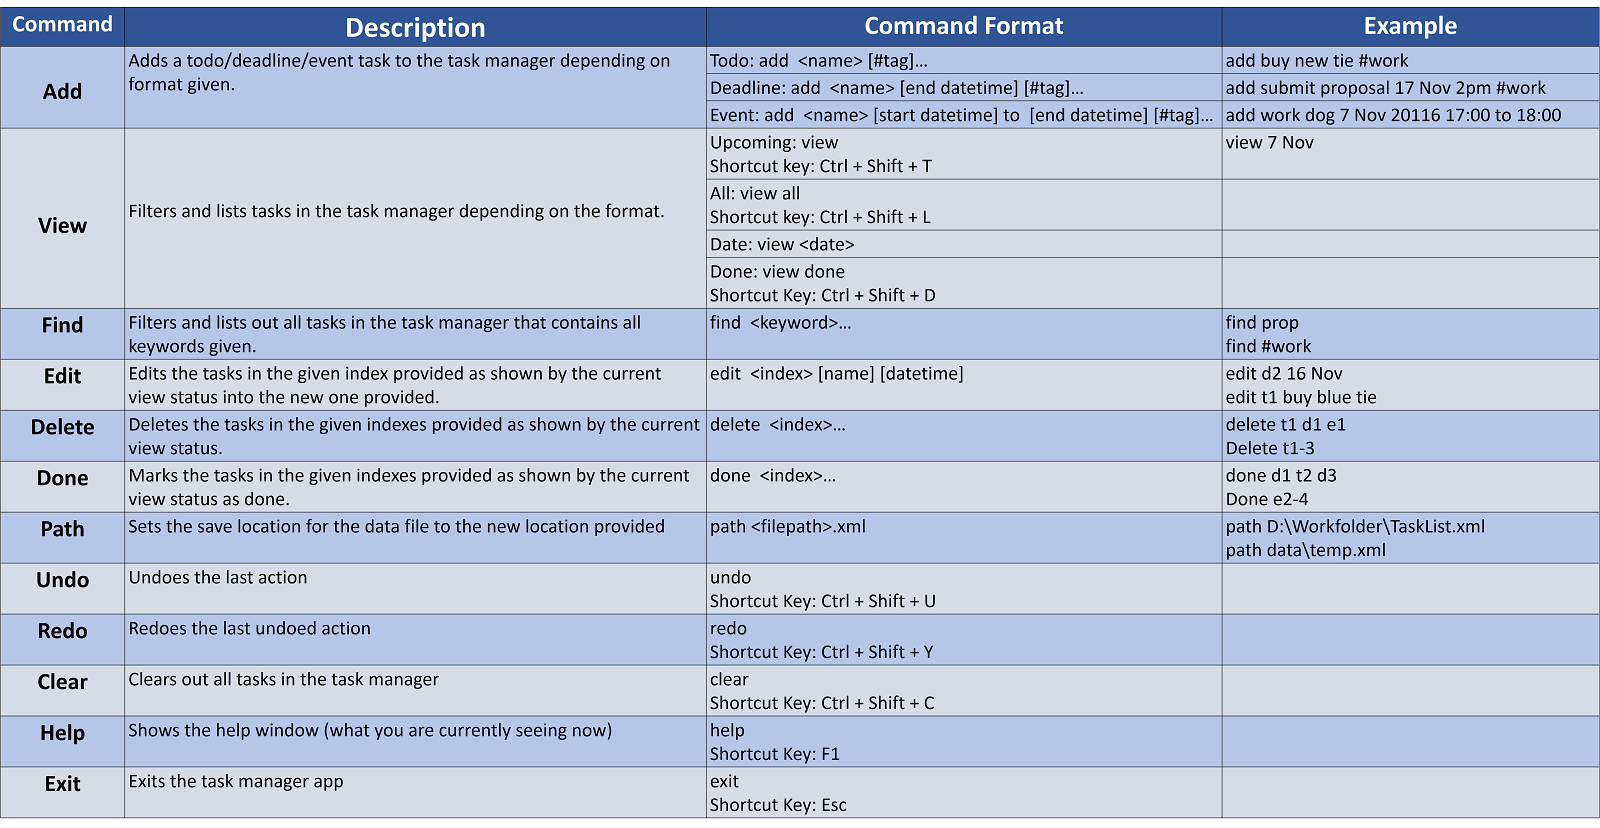
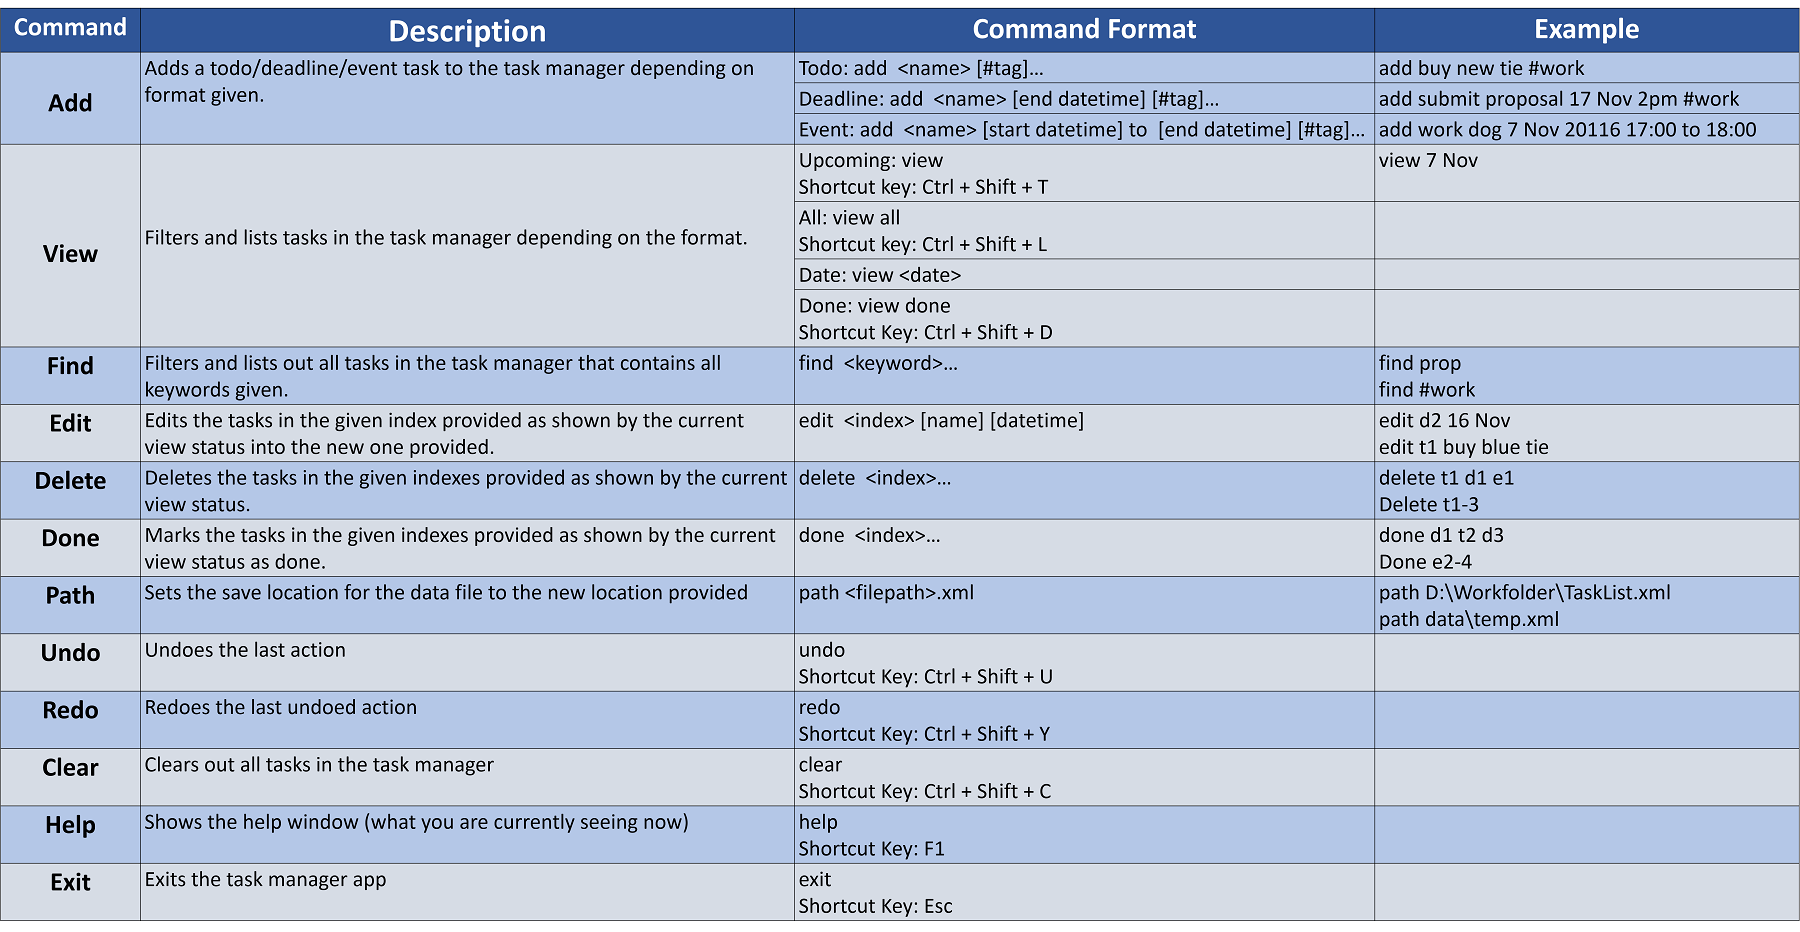
Update HelpWindow to use a ScrollPane in case users screen is too small and increase size of HelpWindow image

diff --git a/src/main/java/seedu/taskitty/ui/HelpWindow.java b/src/main/java/seedu/taskitty/ui/HelpWindow.java
@@ -3,6 +3,7 @@ package seedu.taskitty.ui;
 import javafx.geometry.Rectangle2D;
 import javafx.scene.Node;
 import javafx.scene.Scene;
+import javafx.scene.control.ScrollPane;
 import javafx.scene.image.Image;
 import javafx.scene.image.ImageView;
 import javafx.scene.layout.AnchorPane;
@@ -24,7 +25,7 @@ public class HelpWindow extends UiPart {
     private static final String FXML = "HelpWindow.fxml";
     private static final String TITLE = "Help";
     private static final String HELPIMAGE = "/images/UIhelp.png";
-    private AnchorPane mainPane;
+    private ScrollPane mainPane;
 
     private Stage dialogStage;
 
@@ -37,7 +38,7 @@ public class HelpWindow extends UiPart {
 
     @Override
     public void setNode(Node node) {
-        mainPane = (AnchorPane) node;
+        mainPane = (ScrollPane) node;
     }
 
     @Override
@@ -45,19 +46,22 @@ public class HelpWindow extends UiPart {
         return FXML;
     }
 
+    //@@author A0139052L
     private void configure(){
         Scene scene = new Scene(mainPane);
         //Null passed as the parent stage to make it non-modal.
         dialogStage = createDialogStage(TITLE, null, scene);
-        Screen screen = Screen.getPrimary();
 
         setIcon(dialogStage, ICON);
         
+        //Get the HelpWindow image and set its boundary and size
         Image helpImage = AppUtil.getImage(HELPIMAGE);
         ImageView helpImageView = new ImageView(helpImage);        
         FxViewUtil.applyAnchorBoundaryParameters(helpImageView, 0.0, 0.0, 0.0, 0.0);
         helpImageView.autosize();
-        mainPane.getChildren().add(helpImageView);
+        
+        //Set the HelpWindow image obtained as the content for the ScrollPane
+        mainPane.setContent(helpImageView);
     }
 
     public void show() {
